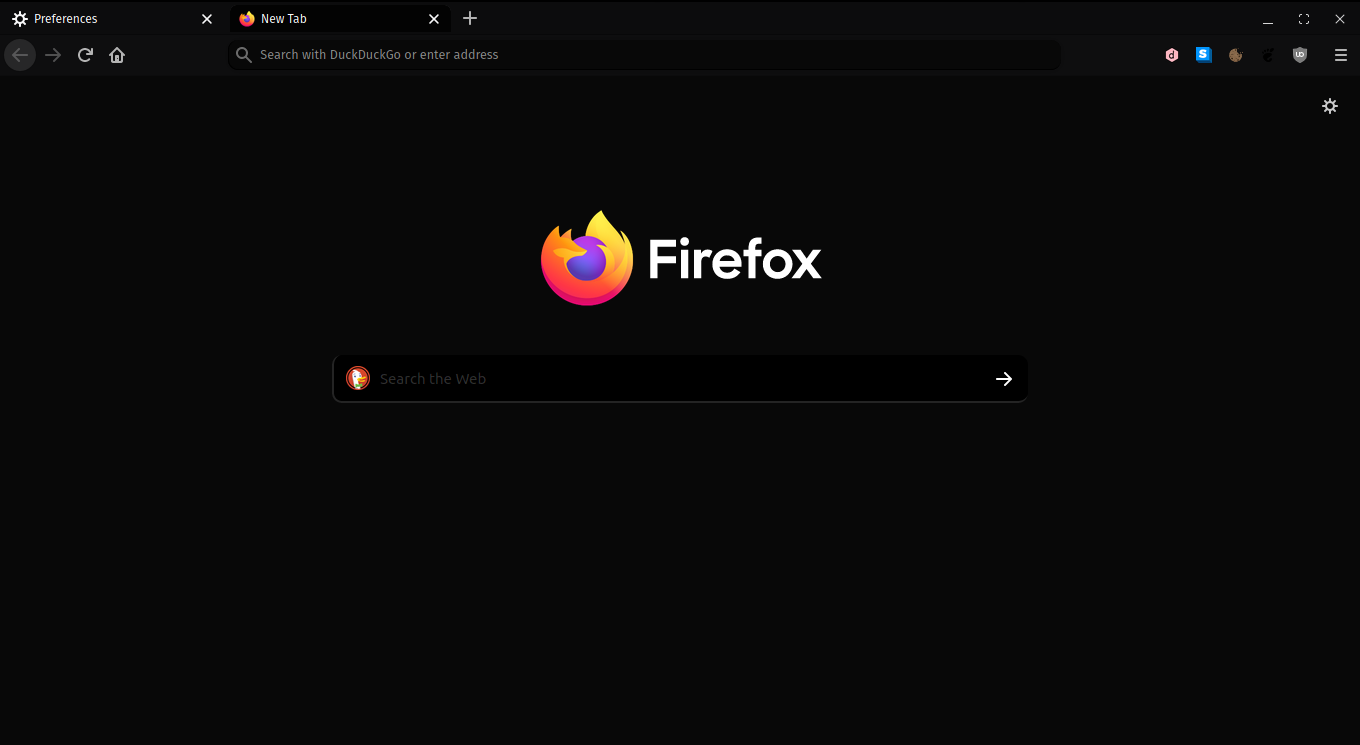
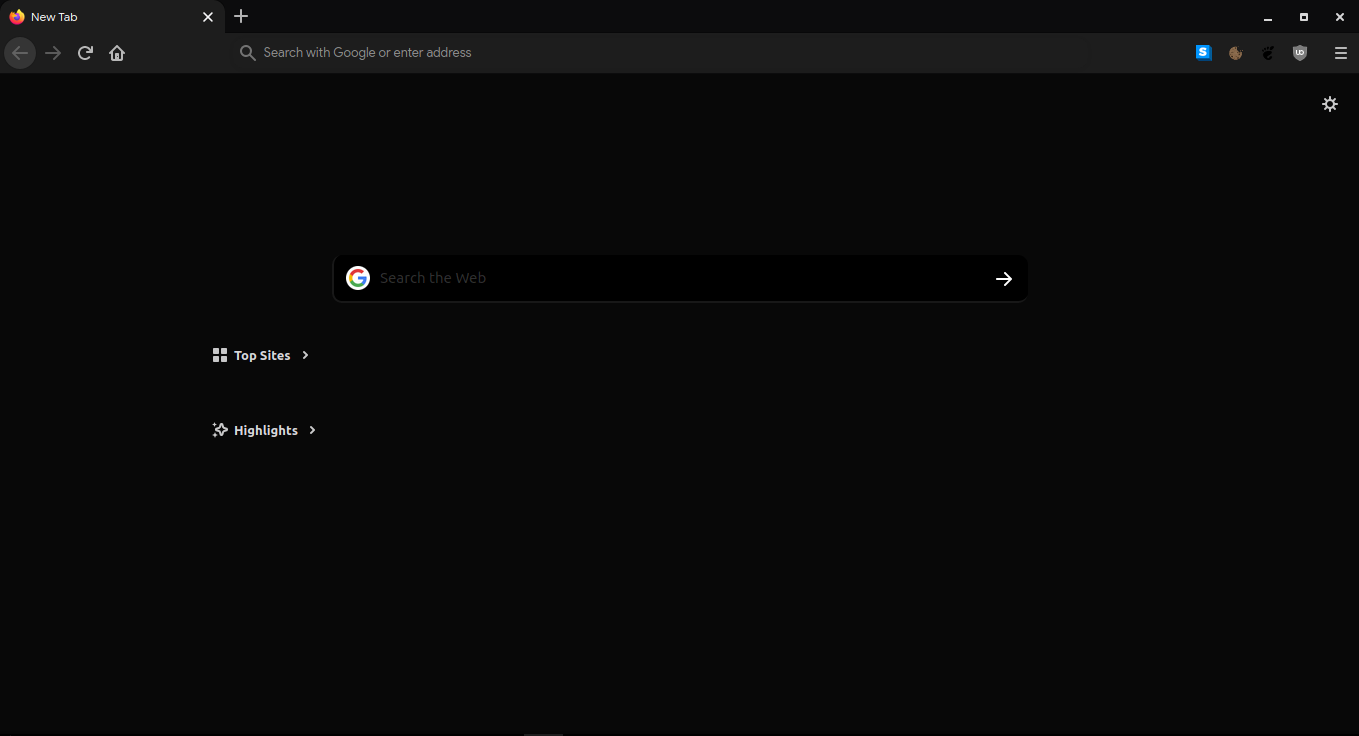
Updated the whole theme. Changed the manual. New Pictures

diff --git a/userChrome.css b/userChrome.css
@@ -1,61 +1,59 @@
 #urlbar {
-	background-color: #080808 !important;
-	color: #ffffff !important;
+	background-color: #1d1d1d !important;
+	color: #f5f5f5 !important;
 	border: none !important;
 	margin: none !important;
-	border-bottom: 1px solid #000000 !important;
-	border-left: 1px solid #000000 !important;
+	border-bottom: 0px solid #000000 !important;
+	border-left: 0px solid #000000 !important;
 	border-radius: 10px 10px 10px 10px !important;}
 
 
 #urlbar-background{
-	background-color: #080808 !important;
-	color: #ffffff !important;
-  /*border: 1px solid #2b387c !important;*/
+	background-color: #1d1d1d !important;
+	color: #f5f5f5 !important;
 	border: none !important;
 	margin: none !important;
 	padding: none !important;
 	border-radius: 10px 10px 10px 10px !important;
 }
 
-#titlebar {
-	background-color: #080808 !important;
-   }
 
 
 #TabsToolbar .tabbrowser-tab,
 #TabsToolbar .tabbrowser-tab .tab-stack,
-#TabsToolbar .tabbrowser-tab .tab-background,
-#TabsToolbar .tabbrowser-tab .tab-content {
-	border-top-left-radius: 7px !important;
-	border-top-right-radius: 7px !important;
-	margin-top: 1px;
+#TabsToolbar .tabbrowser-tab{
+	border-top-left-radius: 10px !important;
+	border-top-right-radius: 10px !important;
+	margin-top: 1px !important;
 	border: none !important;
-	margin: 1px !important;
+	margin: 0px !important;
+    background-color: #080808 !important;
 }
 
-.tab-line {
-	display:none !important;
+.tab-background{
+    border-top-left-radius: 12px !important;
+    border-top-right-radius: 12px !important;
+}
+.tab-line[selected="true"] {
+    display: none !important;
+    /*background-color: #3f51b5 !important;*/
 }
 
-.tab-content[selected="true"] {
-	background: #030303 !important;
-}
-
-.tab-content[selected="false"] {
-	background: #1d1d1d !important;
+.tab-background[selected="true"] {
+      background-color: #1d1d1d !important;
+      background-image: none !important;
 }
 
 #nav-bar {
-	background-color: #0a0a0a !important;
+	background-color: #1d1d1d !important;
 	border: none !important;
 	margin: none !important;
 	padding: none !important;
 }
 
 #PersonalToolbar{
-	background: #080808 !important;
-	color: #ffffff !important;
+	background: #1d1d1d !important;
+	color: #f5f5f5 !important;
   }
   
 .tabbrowser-tab::before, 
@@ -78,27 +76,27 @@ Accent:     #E7E7E7 (#080808)
 */
 
 .panel-arrow {
-	fill: #0a0a0a !important;
+	fill: #1d1d1d !important;
 	background: transparent !important;
 	/*border-color: #0a0a0a !important;*/
 }
 
 /* Make the menu round :) */
 .panel-arrowcontent{
-  background:#0a0a0a !important;
+  background:#1d1d1d !important;
   border: 0px solid #000000 !important;
-  border-radius:15px !important;
+  border-radius: 5px !important;
 }
 
 .panel-subview-body {
 	color: #f5f5f5 !important;
-	background: #0a0a0a !important;
-	border: 1px solid #0a0a0a !important;
-	border-radius: 15px !important;
+	background: #080808 !important;
+	border: 0px !important;
+	border-radius: 5px !important;
 }
 
 .subviewbutton.panel-subview-footer {
-	background-color: #0a0a0a !important;
+	background-color: #1d1d1d !important;
 	border-top: 0px solid !important;
 }
 
@@ -115,8 +113,12 @@ Accent:     #E7E7E7 (#080808)
   border-radius: 20px !important;
 }
 
+.sidebar-splitter {
+    background-color: #080808 !important;
+}
+
 .subviewbutton.panel-subview-footer {
-	background-color: #0a0a0a !important;
+	background-color: #1d1d1d !important;
 	border-top: 1px solid #f5f5f5 !important;
 	border-radius:20px !important;
 }
@@ -124,7 +126,7 @@ Accent:     #E7E7E7 (#080808)
 .appMenu-tp-separator,
 toolbarseparator {
 	display: visible !important;
-	border-color: #0a0a0a !important;
+	border-color: #080808 !important;
 	/*border-radius:10px !important;*/
 }
 
@@ -137,14 +139,6 @@ toolbarseparator {
 	fill: #3f51b5 !important;
 }
 
-#appMenu-popup .subviewbutton .toolbarbutton-text,
-#appMenu-popup .panel-arrowcontent,
-panelmultiview .toolbaritem-combined-buttons>label {
-	font-family: Fira Sans !important;
-	font-size: 14px !important;
-  border-radius: 20px !important;
-}
-
 .PanelUI-subView .toolbaritem-combined-buttons>.subviewbutton-iconic>.toolbarbutton-text {
 	display: none !important;
 }
@@ -154,7 +148,6 @@ panelmultiview .toolbaritem-combined-buttons>label {
 	background: transparent !important;
 	fill: #3f51b5 !important;
 	border: 0px solid #3f51b5 !important;
-	border-radius: 20px !important;
 }
 
 #appMenu-zoomReset-button label {

diff --git a/userContent.css b/userContent.css
@@ -15,8 +15,8 @@
       color: #ffffff5e !important;
       border: none !important;
       box-shadow: none !important;
-  border-bottom: 2px solid #ffffff52 !important;
-  border-left: 2px solid #ffffff52 !important;
+  border-bottom: 2px solid #ffffff18 !important;
+  border-left: 2px solid #ffffff18 !important;
   border-radius: 10px 10px 10px 10px !important;
   }
   .search-wrapper .logo-and-wordmark {

diff --git a/README.md b/README.md
@@ -12,6 +12,11 @@ My own CSS config for a dark firefox theme, [slightly based on plata GTK](https:
 
 ## How to install
 
+#### Set the default firefox dark theme as current theme
+Firefox won't accept the dark colors from this theme unless we are using its dark theme.
+
+![](Pictures/Firefox5.png)
+
 #### Enable userChrome customization in about:config
 
 - Navigate to about:config in the address bar and accept the risks.
@@ -27,12 +32,6 @@ Either of the following two methods work:
   - Click on ☰ ➝ Help ➝ Troubleshooting Information or navigate to about:support in your address bar
   
   - Under Application Basics, click on the the Open Folder button. You should now see your profile folder.
-
-- Using the Firefox command line
-  
-  - Press Shift+F2
-  
-  - Enter the command folder openprofile
 
 #### Save the files
 
